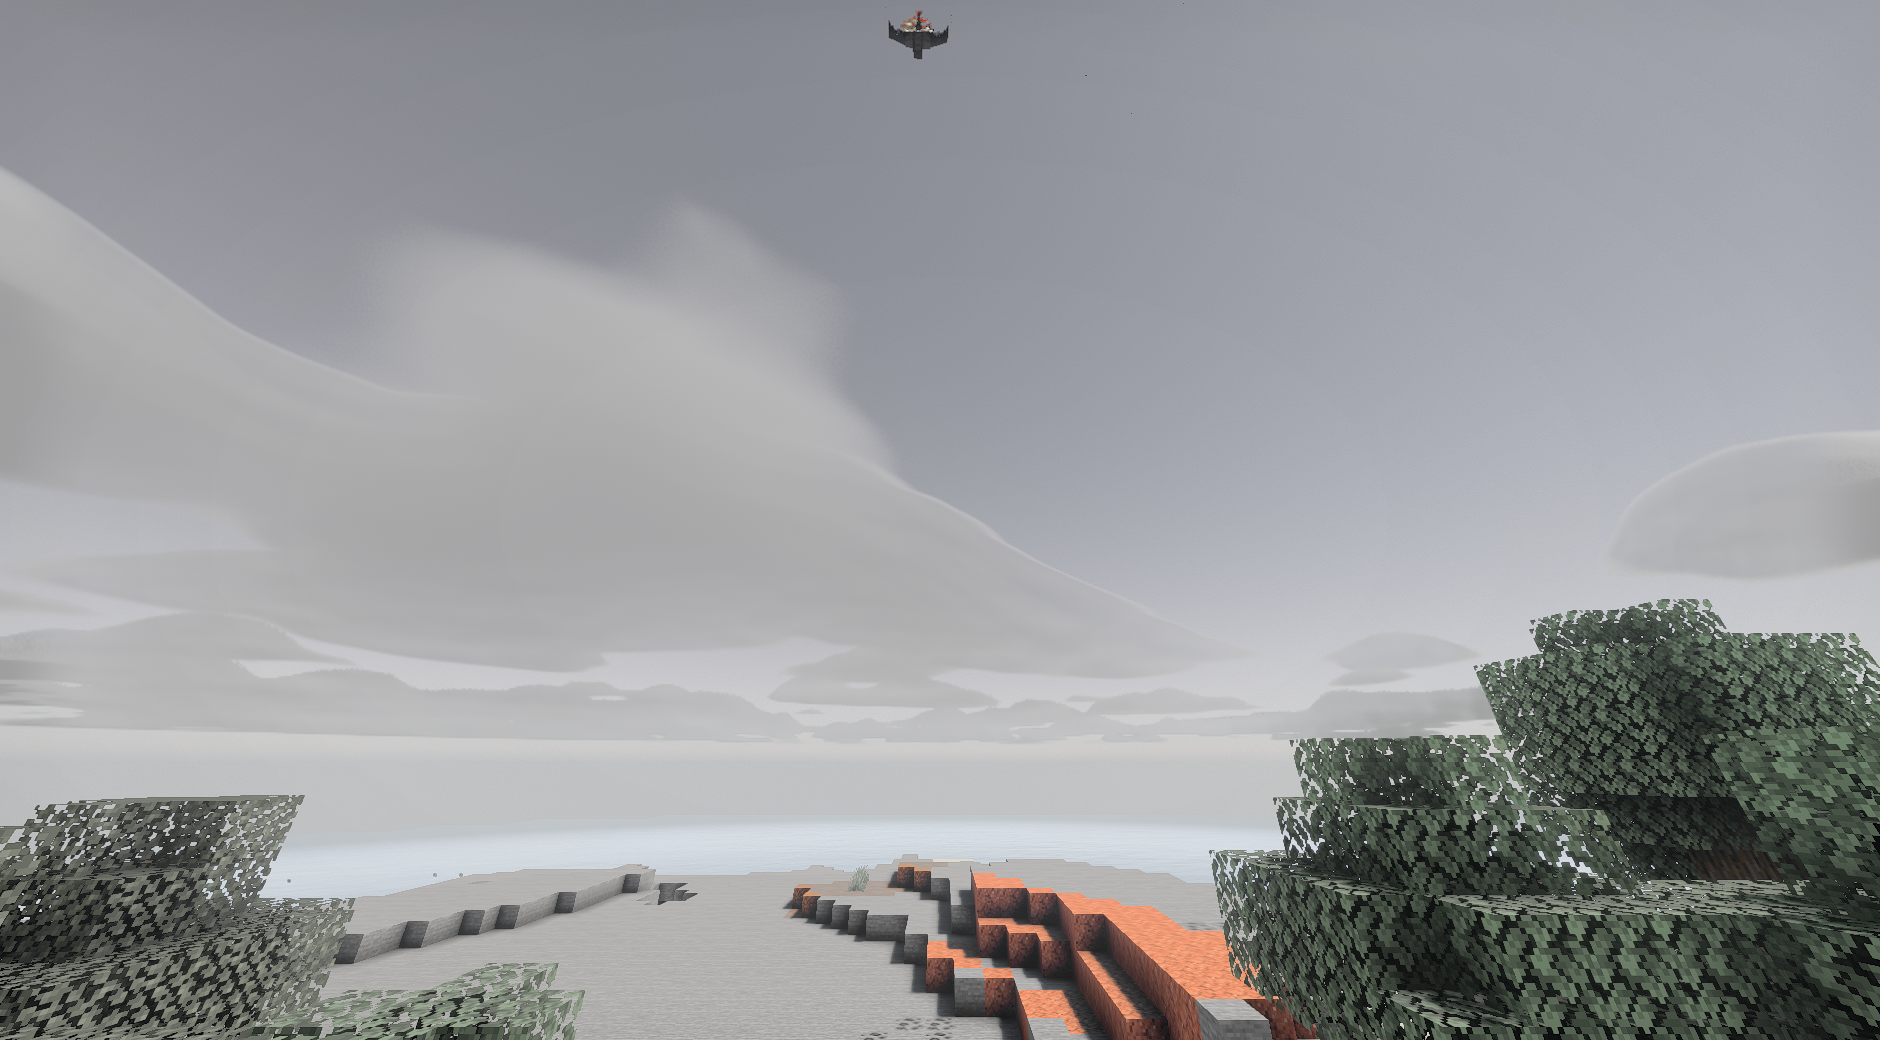
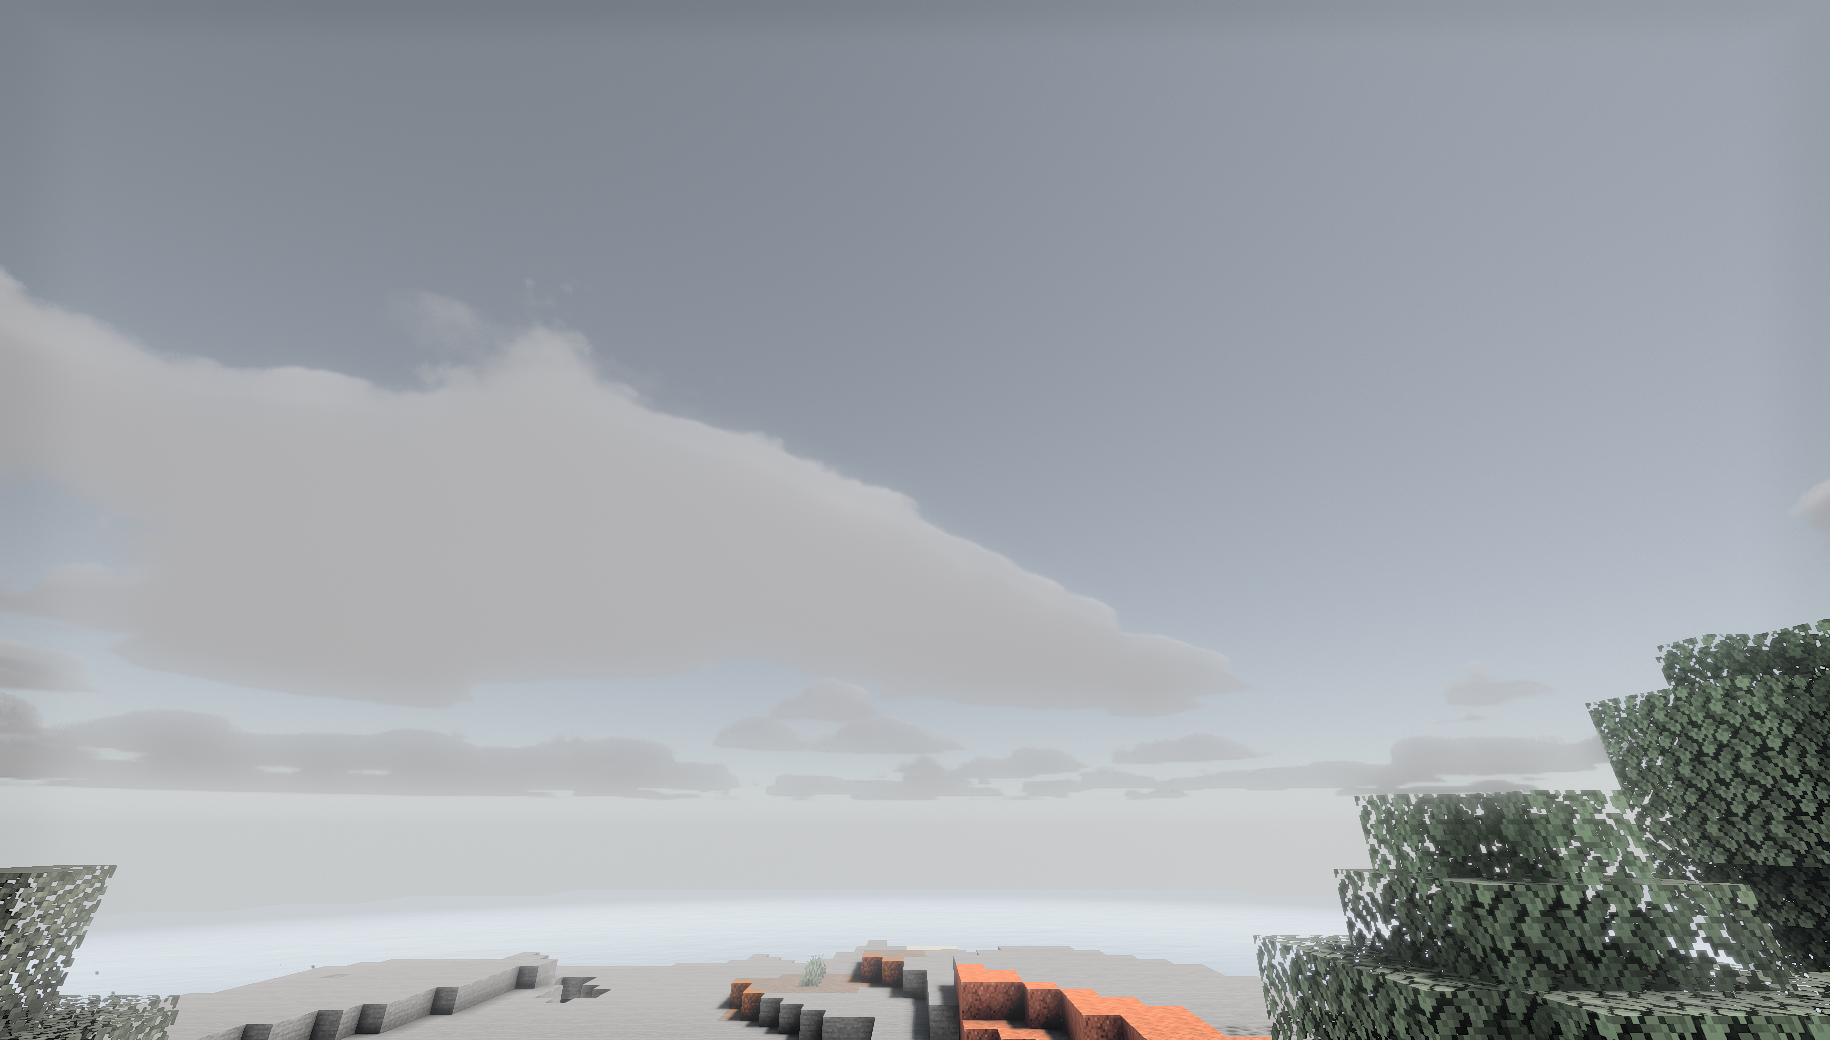
05.5 Nubes con borde: erosión de Schneider en dos frecuencias (lóbulos y coliflores)
remap(d, ruido·k, 1) con Perlin-Worley a 220–360 bloques y Worley fino a 70, invertido arriba y atenuado en
la base. Constantes con nombre en opciones/volumen.wgsl.

diff --git a/docs/efectos/niebla-y-nubes.md b/docs/efectos/niebla-y-nubes.md
@@ -175,3 +175,24 @@ noche baja (`OPC_EV_NOCHE` 4,3) para seguir en el objetivo del 11: **17,3/255** 
 **Visto** (`hoja-niebla-noche.png`, a las 14000 mirando al sur, sin aurora ni aislamiento, frente a
 `aurora_off_noche.png`): antes, arriba (8; 11; 15) y gris; ahora (14; 21; 26), azul marino oscuro. La referencia
 arriba es (25; 40; 60): sigue algo más oscura y menos azul que ella, pero ya no gris.
+
+## Erosión (fase 2b, punto 6)
+
+Observación del dueño (2026-11-03): tras 99d1de4 las nubes quedaron «demasiado blandas, sin borde ni erosión».
+**Causa:** la erosión de 05.4 restaba `(1 − ruido) · 0,32 · (1 − d)` con un solo ruido de periodo 220–360 bloques (vóxel
+de 7–11 bloques): apenas mordía y no tenía detalle fino; con la cobertura en rampa ancha y raíz, la densidad crecía
+suave desde el borde y la nube se veía como una mancha difusa.
+
+**Ahora** (`vol_nube` en `nucleo/volumen/medios.wgsl`), la erosión de Schneider y Vos (2015) con `remap(d, ruido·k, 1)`,
+que recorta la envolvente y deja el borde nítido, en dos frecuencias:
+1. **gruesa** (canal R, Perlin-Worley, al periodo de antes `OPC_NUBES_ESCALA_EROSION`), fuerza 0,45
+   (`OPC_NUBES_EROSION_FUERZA`): los lóbulos. Con 0,55 se comía demasiada cobertura;
+2. **fina** (Worley G·0,625 + B·0,25 + fBm A·0,125, periodo 70 bloques, `OPC_NUBES_ESCALA_DETALLE`), fuerza 0,35
+   (`OPC_NUBES_DETALLE_FUERZA`): abajo tal cual (jirones) y desde el 10–60 % del alto del cúmulo invertida
+   (coliflores), como en Schneider;
+3. en la base solo un 40 % de las dos (`OPC_NUBES_EROSION_BASE`), para que siga plana.
+
+La fina solo se lee donde la gruesa deja densidad. Visto en `hoja-nubes-erosion.png` (recorrido `nubes-recorrido`,
+aislamiento encendido): cúmulos con lóbulos y borde definido desde el suelo en los seis rumbos y al cruzar la capa;
+las nubes grandes y lejanas siguen más lisas. **Presupuesto:** la pasada final queda en 62 de 64 lecturas de textura (el
+volumen va en `shared`); la siguiente lectura en `shared` habrá que pagarla quitando otra.
